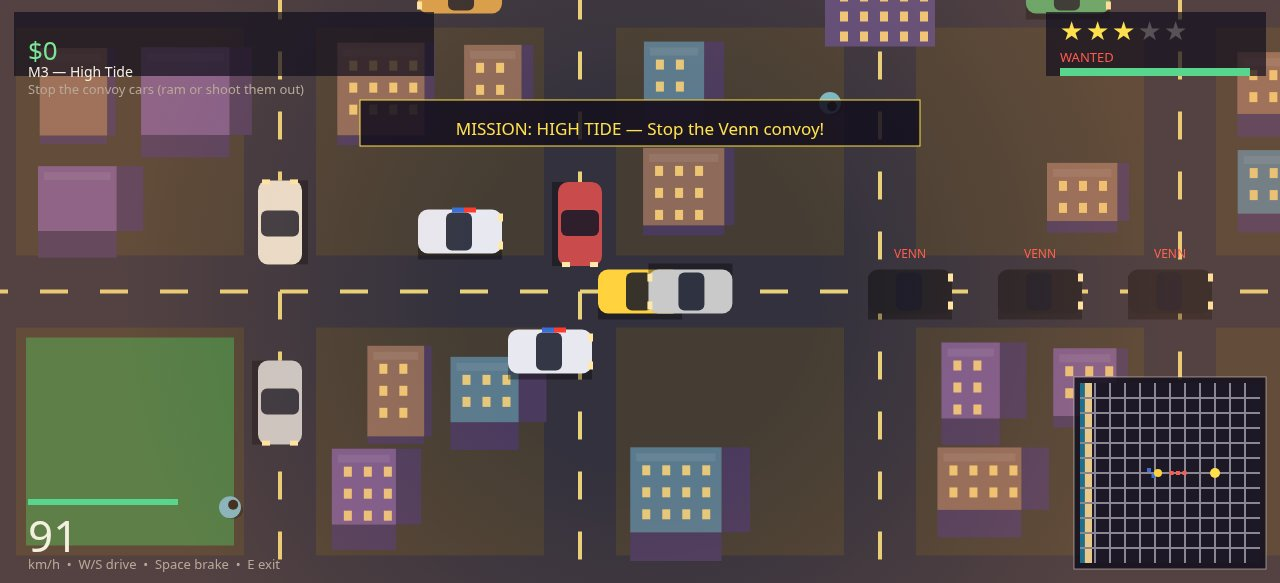
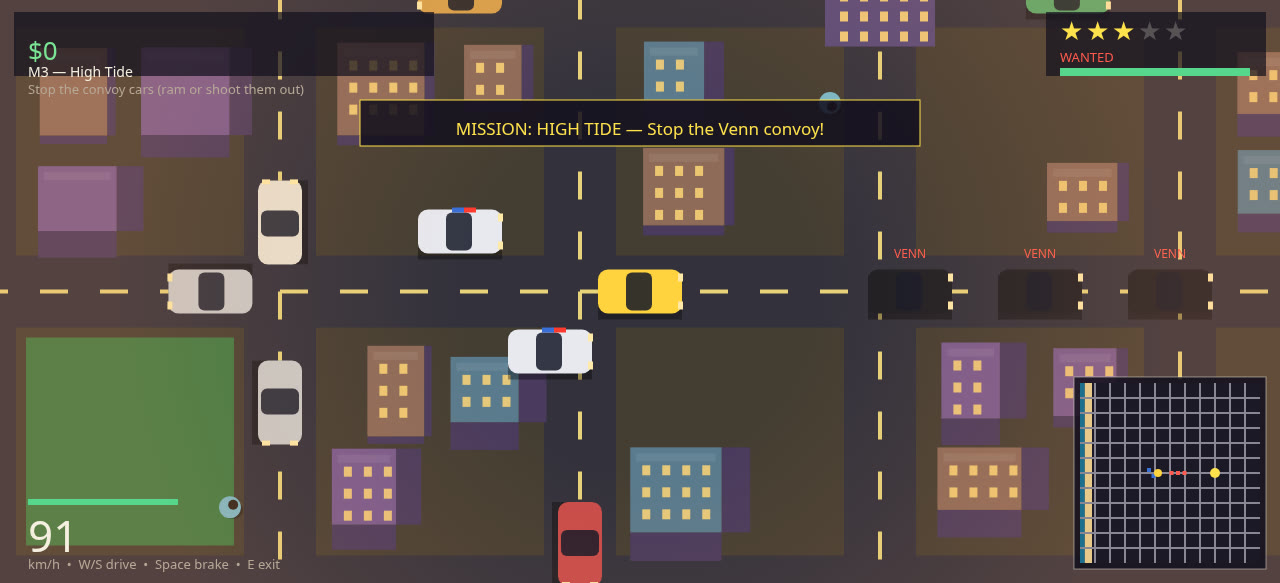
Fix review gate: reverse gear, mission-1 save soft-lock, police balance, car collision

diff --git a/game/src/entities.js b/game/src/entities.js
@@ -6,11 +6,17 @@ import { mulberry32, pick, range } from './random.js';
 import { buildCity, collideCircleBuildings, nearestRoadPoint, resolveCircleBuildings } from './city.js';
 import { addHeat, clearWanted, createWanted, decayWanted, wantedStars } from './wanted.js';
 import { advanceMission, createMissions, currentMission, missionObjective } from './missions.js';
-import { circlesHit, stepCar } from './physics.js';
+import { circlesHit, separateCars, stepCar } from './physics.js';
 import { dropCash, fireBullet, punch, spawnParticle, stepBullets } from './combat.js';
 
 const CAR_COLORS = ['#c94b4b', '#4b7ac9', '#e8e0d0', '#58a86b', '#d8a04b', '#8e6ac9', '#c9c9c9'];
 const PED_COLORS = ['#e8e0d0', '#7ab8c9', '#c97a7a', '#a8c97a', '#d8b84b', '#b89ad8'];
+
+// Police tuning: top speed stays below the player's untuned 520 so a clean
+// getaway is possible, and ramming costs 40 hp/s — about 2.5 s of contact
+// to wreck a full-health car, not under one second.
+const POLICE_TOP_SPEED = 480;
+const POLICE_RAM_DPS = 40;
 
 function landmark(id) {
   return LANDMARKS.find((l) => l.id === id);
@@ -211,7 +217,10 @@ function stepPolice(state, cop, dt, events) {
     while (diff > Math.PI) diff -= Math.PI * 2;
     while (diff < -Math.PI) diff += Math.PI * 2;
     cop.angle += Math.max(-3.2 * dt, Math.min(3.2 * dt, diff));
-    cop.speed = Math.min(560, cop.speed + 380 * dt);
+    // Capped below the player's untuned top speed (520), so a clean
+    // getaway in a straight line is possible; the cops still close in
+    // through corners and numbers.
+    cop.speed = Math.min(POLICE_TOP_SPEED, cop.speed + 380 * dt);
     cop.x += Math.cos(cop.angle) * cop.speed * dt;
     cop.y += Math.sin(cop.angle) * cop.speed * dt;
     const hit = collideCircleBuildings(cop.x, cop.y, 30, state.city);
@@ -222,9 +231,12 @@ function stepPolice(state, cop, dt, events) {
       cop.angle += 0.6;
     }
     if (p.inCar && p.car && circlesHit(cop, 30, p.car, 30)) {
-      p.car.hp -= 14 * dt * 10;
+      // Ram damage is POLICE_RAM_DPS per second: a full-health car
+      // survives about 2.5 s of contact, so a ram hurts but no longer
+      // wrecks the car in under a second. The cop still slows on impact.
+      p.car.hp -= POLICE_RAM_DPS * dt;
       cop.speed *= 0.5;
-      if (Math.random() < dt * 8) events.push({ type: 'sound', name: 'crash' });
+      if (state.rng() < dt * 8) events.push({ type: 'sound', name: 'crash' });
       if (p.car.hp <= 0) {
         events.push({ type: 'car-wrecked' });
         p.car.stopped = true;
@@ -368,6 +380,14 @@ export function stepGame(state, controls, dt) {
   for (const car of state.cars) {
     if (car === p.car) continue;
     stepTrafficCar(state, car, dt);
+  }
+  // The player's car cannot pass through traffic: any overlap with a
+  // traffic car pushes the cars apart and bleeds speed on contact.
+  if (p.inCar && p.car) {
+    for (const car of state.cars) {
+      if (car === p.car) continue;
+      separateCars(p.car, car);
+    }
   }
   for (const ped of state.peds) stepPed(state, ped, dt);
   if (wantedStars(state.wanted) > 0) spawnPolice(state);

diff --git a/game/src/shots.js b/game/src/shots.js
@@ -44,6 +44,34 @@ function placePolice(state, spots) {
 }
 
 /**
+ * Shots never step the game, so the runtime car collision cannot fix a
+ * staged overlap: slide any traffic car that sits too close to a staged
+ * actor along its own road until it is clear (wrapping along the road so
+ * it stays in the world). Two 30-radius cars need 60 px to stop touching;
+ * CLEAR_PX keeps them visibly apart with margin.
+ */
+const CLEAR_PX = 140;
+
+function clearStagedActors(state, actors) {
+  for (const car of state.cars) {
+    if (car === state.player.car) continue;
+    let tries = 0;
+    while (tries < 12 && actors.some(([ax, ay]) => Math.hypot(car.x - ax, car.y - ay) < CLEAR_PX)) {
+      if (car.avenue) {
+        car.y += 160 * (car.dir || 1);
+        if (car.y > 3300) car.y -= 3000;
+        if (car.y < 300) car.y += 3000;
+      } else {
+        car.x += 160 * (car.dir || 1);
+        if (car.x > 3300) car.x -= 3000;
+        if (car.x < 300) car.x += 3000;
+      }
+      tries += 1;
+    }
+  }
+}
+
+/**
  * Stage `name` on a fresh game and return { state, screen, withMap }.
  * Unknown names stage the title screen.
  */
@@ -55,6 +83,13 @@ export function stageShot(name, seed) {
     placeConvoy(state);
     givePlayerCar(state, 1560, 1800, 0, 380);
     placePolice(state, [[1380, 1740], [1470, 1860]]);
+    // Keep random traffic out of the staged cars: with seed 7 a traffic
+    // car spawned on the player's bumper and the two cars visibly clipped.
+    clearStagedActors(state, [
+      [1560, 1800],
+      [1380, 1740], [1470, 1860],
+      [1830, 1800], [1960, 1800], [2090, 1800],
+    ]);
     addHeat(state.wanted, 125); // 3 stars
     state.banner = { text: 'MISSION: HIGH TIDE — Stop the Venn convoy!', until: 9999 };
     return { state, screen: SCREEN_PLAY, withMap: false };

diff --git a/game/src/physics.js b/game/src/physics.js
@@ -60,3 +60,44 @@ export function circlesHit(a, ar, b, br) {
   const r = ar + br;
   return dx * dx + dy * dy < r * r;
 }
+
+/**
+ * Push two overlapping cars apart and bleed both speeds, so cars can no
+ * longer drive through each other. A parked car is treated as fixed: only
+ * the other car moves. Returns true when the cars were overlapping.
+ */
+export function separateCars(a, b) {
+  const minDist = RADIUS * 2;
+  const dx = b.x - a.x;
+  const dy = b.y - a.y;
+  const distSq = dx * dx + dy * dy;
+  if (distSq >= minDist * minDist) return false;
+  if (a.parked && b.parked) return false;
+  let dist = Math.sqrt(distSq);
+  let nx;
+  let ny;
+  if (dist < 0.001) {
+    // Exactly on top of each other: separate along a's heading.
+    nx = Math.cos(a.angle);
+    ny = Math.sin(a.angle);
+    dist = 0;
+  } else {
+    nx = dx / dist;
+    ny = dy / dist;
+  }
+  const overlap = minDist - dist;
+  const aShare = a.parked ? 0 : b.parked ? 1 : 0.5;
+  const bShare = 1 - aShare;
+  a.x -= nx * overlap * aShare;
+  a.y -= ny * overlap * aShare;
+  b.x += nx * overlap * bShare;
+  b.y += ny * overlap * bShare;
+  // Bleed in proportion to how deep the overlap is: a head-on shunt costs
+  // up to a quarter of the speed, while a paint-scraping graze — the kind
+  // that re-touches for several frames as traffic creeps past — costs
+  // almost nothing per frame.
+  const keep = 1 - 0.25 * (overlap / minDist);
+  a.speed *= keep;
+  b.speed *= keep;
+  return true;
+}

diff --git a/game/src/main.js b/game/src/main.js
@@ -88,6 +88,18 @@ function runGame() {
       state.camera.y = state.player.y;
       state.upgrades = saved.upgrades ?? { armor: false, engine: false };
       state.deedsTaken = saved.deedsTaken ?? false;
+      // Ana's state travels with the save: without it, a reload during
+      // the delivery step left her waiting at the market while the
+      // delivery trigger needs her following, and mission 1 could never
+      // finish.
+      if (saved.witnessWaiting !== undefined) state.witness.waiting = saved.witnessWaiting;
+      if (saved.witnessFollowing !== undefined) state.witness.following = saved.witnessFollowing;
+      if (missionObjective(state.missions).id === 'm1-deliver') {
+        // Step m1-deliver is only reachable after Ana was picked up, so
+        // an older save without witness fields still resumes correctly.
+        state.witness.waiting = false;
+        state.witness.following = true;
+      }
       if (state.missions.index >= 3) state.missions.done = true;
     }
   } catch { /* A broken save just starts fresh. */ }
@@ -108,6 +120,8 @@ function runGame() {
         y: state.player.y,
         upgrades: state.upgrades,
         deedsTaken: state.deedsTaken,
+        witnessWaiting: state.witness.waiting,
+        witnessFollowing: state.witness.following,
         time: state.time,
       }));
       window.localStorage.setItem('solara-bay.best', String(Math.max(best, state.missions.cash)));

diff --git a/game/src/input.js b/game/src/input.js
@@ -34,6 +34,10 @@ export function createInput(target) {
       held.add(event.code);
       event.preventDefault();
     } else if (CONFIRM.has(event.code)) {
+      // Space doubles as the brake, so track it in `held` as well as
+      // queueing the one-shot confirm; keyup already removes it. Enter
+      // stays confirm-only — it has no held-key job.
+      if (event.code === 'Space') held.add('Space');
       if (!event.repeat) actions |= ACTION_CONFIRM;
       event.preventDefault();
     } else if (PAUSE.has(event.code)) {
@@ -84,7 +88,10 @@ export function createInput(target) {
       };
     },
     sprint() { return held.has('ShiftLeft') || held.has('ShiftRight'); },
-    brake() { return has(DOWN) || held.has('Space'); },
+    // Space only. S / ArrowDown is reverse (throttle -1..0), not a brake:
+    // folding reverse into brake() used to cancel the reverse thrust the
+    // moment the car slowed through zero, pinning it at speed 0.
+    brake() { return held.has('Space'); },
     mouse() { return { x: mouseX, y: mouseY, down: mouseDown }; },
     /** The one-shot presses since the last call, as ACTION_* flags. */
     takeActions() {
